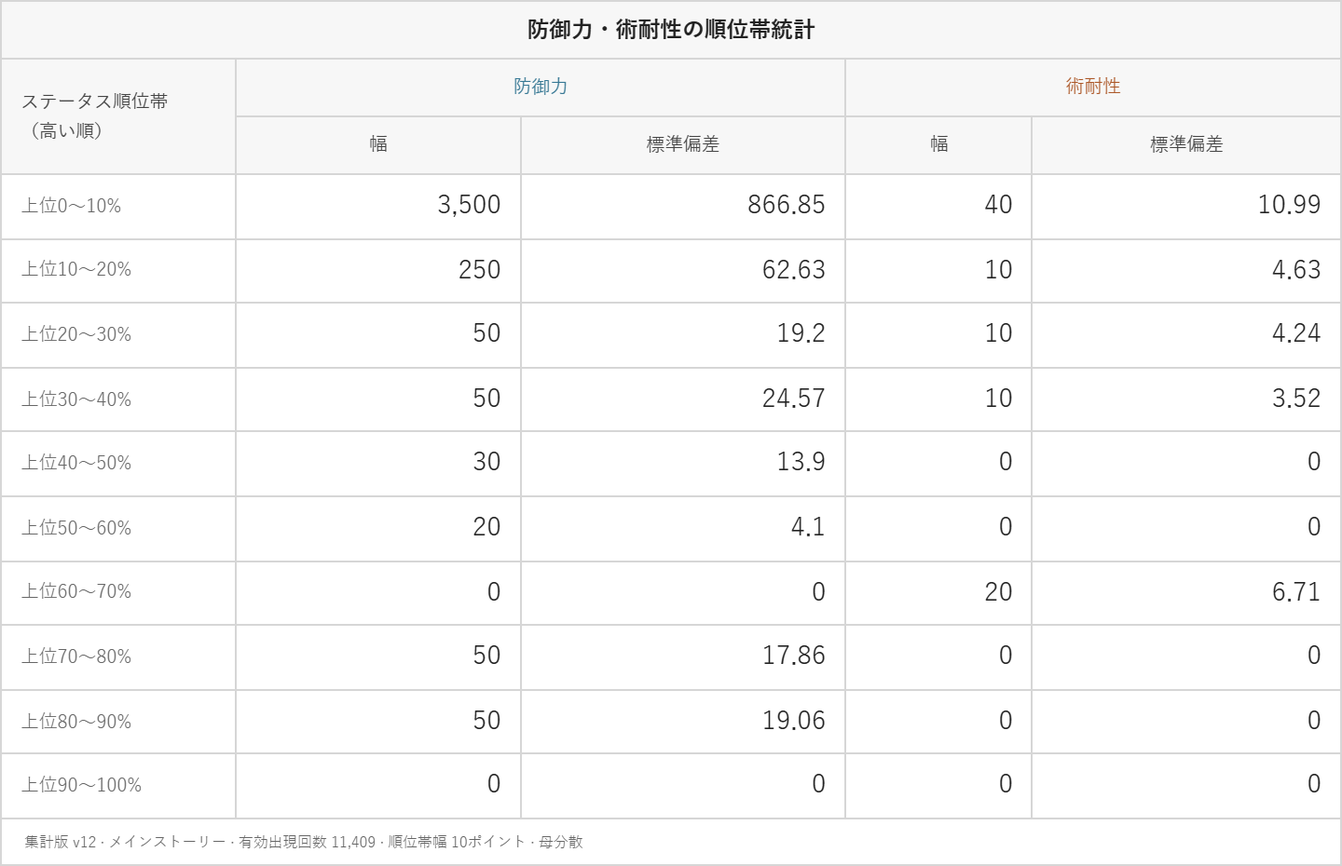
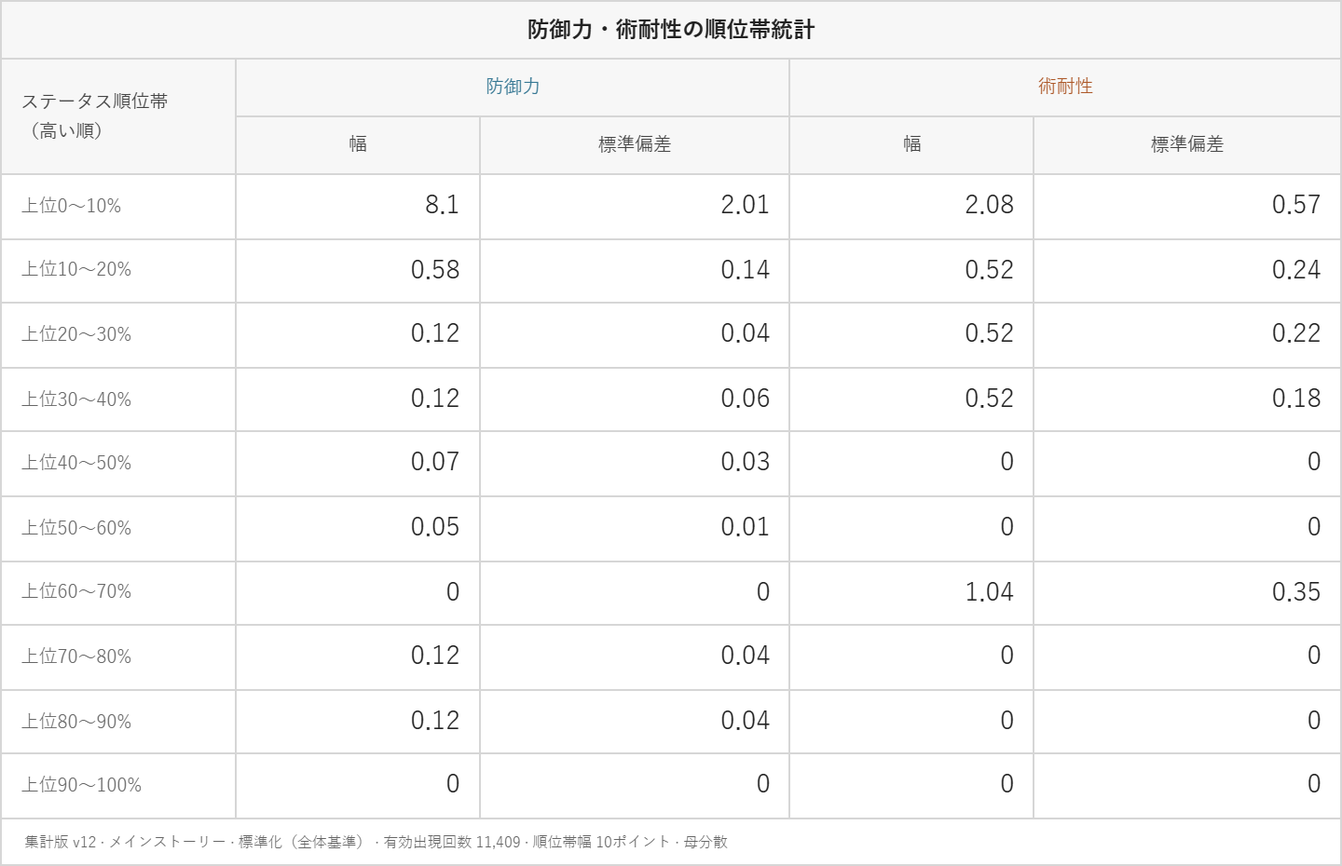
Standardize enemy rank band statistics on a shared mirrored scale

diff --git a/src/components/EnemyRankBandStatisticsPlot.tsx b/src/components/EnemyRankBandStatisticsPlot.tsx
@@ -1,7 +1,8 @@
 import { useId, useLayoutEffect, useRef, useState } from 'react'
-import { createZeroBasedValueAxis } from '../lib/chartValueAxis'
-import type { EnemyRankBandMetric, EnemyRankBandStatistics } from '../lib/enemyRankBandStatistics'
+import { getHpChartValueAxis } from '../lib/goldenglowTargetSwitchHpAxis'
+import type { EnemyRankBandMetric, EnemyStandardizedRankBandStatistics } from '../lib/enemyRankBandStatistics'
 import { ENEMY_RANK_BAND_METRIC_LABELS, formatRankBandStatistic } from '../lib/enemyRankBandStatisticsDisplay'
+import { ChartStripCell } from './ChartStripCell'
 import './EnemyRatingComparisonPlot.css'
 import './EnemyRankBandStatisticsPlot.css'
 
@@ -9,19 +10,31 @@ const SERIES = [
   { key: 'defense', label: '防御力', colorClass: 'defense' },
   { key: 'resistance', label: '術耐性', colorClass: 'magicResistance' },
 ] as const
-const MINIMUM_WIDTH = 560
-const ROW_HEIGHT = 26
-const PANEL_CHROME_HEIGHT = 80
-const PANEL_GAP = 24
+const MINIMUM_WIDTH = 720
+const ROW_HEIGHT = 32
+const CHROME_HEIGHT = 96
+const RANK_COLUMN_WIDTH = 122
+const COLUMN_GAP = 8
+const OUTER_PADDING = 8
+const MINIMUM_TRACK_WIDTH = 160
 const INK = { 'data-chart-image-ink': 'true' }
 
 export function getEnemyRankBandStatisticsPlotHeight(bandCount: number): number {
-  return 2 * (PANEL_CHROME_HEIGHT + Math.max(1, bandCount) * ROW_HEIGHT) + PANEL_GAP
+  return CHROME_HEIGHT + Math.max(1, bandCount) * ROW_HEIGHT
 }
 
-/** The two statistics retain independent axes; all controls live outside the drawing. */
+function metricValue(band: EnemyStandardizedRankBandStatistics, key: typeof SERIES[number]['key'], metric: EnemyRankBandMetric): number | null {
+  const value = band[key]?.[metric]
+  return typeof value === 'number' && Number.isFinite(value) ? value : null
+}
+
+function formatValue(value: number | null): string {
+  return value === null ? '—' : formatRankBandStatistic(value)
+}
+
+/** Both standardized series share one value domain; controls live outside the drawing. */
 export function EnemyRankBandStatisticsPlot({ bands, metric, width, height, imageMode = false }: {
-  bands: readonly EnemyRankBandStatistics[]
+  bands: readonly EnemyStandardizedRankBandStatistics[]
   metric: EnemyRankBandMetric
   width?: number
   height?: number
@@ -49,65 +62,94 @@ export function EnemyRankBandStatisticsPlot({ bands, metric, width, height, imag
     return () => { observer.disconnect(); window.cancelAnimationFrame(frame) }
   }, [width])
 
-  const plotWidth = Math.max(MINIMUM_WIDTH, width ?? availableWidth)
+  const allValues = bands.flatMap(band => SERIES.map(({ key }) => metricValue(band, key, metric)))
+  const finiteValues = allValues.filter((value): value is number => value !== null)
+  const allLabels = allValues.map(formatValue)
+  const axis = getHpChartValueAxis(finiteValues, { mode: 'zero' })
+  const span = axis.upperLimit - axis.lowerLimit
+  // Both outer columns use the widest label so neither long variances nor small
+  // nonzero values are shortened, and the two drawing areas stay equally wide.
+  const valueColumnWidth = Math.max(76, ...allLabels.map(label => Math.ceil(label.length * 7.2) + 18))
+  const minimumWidth = 2 * (OUTER_PADDING + valueColumnWidth + MINIMUM_TRACK_WIDTH) + RANK_COLUMN_WIDTH + 4 * COLUMN_GAP
+  const plotWidth = Math.max(MINIMUM_WIDTH, minimumWidth, width !== undefined && Number.isFinite(width) ? width : availableWidth)
   const naturalHeight = getEnemyRankBandStatisticsPlotHeight(bands.length)
-  const plotHeight = Math.max(naturalHeight, height ?? naturalHeight)
-  const panelHeight = (plotHeight - PANEL_GAP) / 2
+  const plotHeight = Math.max(naturalHeight, height !== undefined && Number.isFinite(height) ? height : naturalHeight)
   const metricLabel = ENEMY_RANK_BAND_METRIC_LABELS[metric]
+  const columnLabel = metric === 'width' ? '幅' : metricLabel
+  const middle = plotWidth / 2
+  const top = 58
+  const bottom = plotHeight - 38
+  const rowStep = (bottom - top) / Math.max(1, bands.length)
+  const trackWidth = (plotWidth - 2 * OUTER_PADDING - 2 * valueColumnWidth - RANK_COLUMN_WIDTH - 4 * COLUMN_GAP) / 2
+  const largestTickLabel = Math.max(...axis.yTicks.map(tick => formatRankBandStatistic(tick).length * 7))
+  const tickGap = largestTickLabel + 14
+  const ticks = axis.yTicks.length <= 5 && trackWidth / Math.max(1, axis.yTicks.length - 1) >= tickGap
+    ? axis.yTicks : [...new Set([axis.lowerLimit, 0, axis.upperLimit])].filter(tick => tick === 0
+      || Math.abs(tick) / span * trackWidth >= (formatRankBandStatistic(tick).length + 1) * 3.5 + 12)
   const description = SERIES.map(({ key, label }) => `${label}：${bands.map(band =>
-    `上位${band.from}〜${band.to}% ${formatRankBandStatistic(band[key][metric])}`).join('、')}`).join('。')
+    `上位${band.from}〜${band.to}% ${formatValue(metricValue(band, key, metric))}`).join('、')}`).join('。')
 
   const drawing = <svg className={`enemy-rank-band-statistics-plot${imageMode ? ' is-image' : ''}`}
     width={plotWidth} height={plotHeight} viewBox={`0 0 ${plotWidth} ${plotHeight}`}
     role="img" aria-labelledby={`${titleId} ${descriptionId}`}>
-    <title id={titleId}>順位帯ごとの防御力・術耐性の{metricLabel}</title>
-    <desc id={descriptionId}>{description}。防御力と術耐性は別々の数値軸です。</desc>
+    <title id={titleId}>順位帯ごとの防御力・術耐性の{metricLabel}（標準化）</title>
+    <desc id={descriptionId}>{description}。中央はステータス順位帯、左が防御力、右が術耐性です。標準化した値を左右共通の数値軸で表示しています。</desc>
+    <text {...INK} x={middle} y="18" textAnchor="middle" className="enemy-rank-band-axis-label">
+      <tspan x={middle}>ステータス</tspan><tspan x={middle} dy="13">順位帯</tspan>
+    </text>
     {SERIES.map(({ key, label, colorClass }, seriesIndex) => {
-      const values = bands.map(band => band[key][metric])
-      const axis = createZeroBasedValueAxis(Math.max(0, ...values), 0)
-      const lastTick = axis.ticks.length - 1
-      const ticks = axis.ticks.length <= 5 ? axis.ticks
-        : axis.ticks.filter((_, index) => index === 0 || index === lastTick || index === Math.floor(lastTick / 2))
-      const valueSpace = Math.max(64, ...values.map(value => formatRankBandStatistic(value).length * 7 + 14))
-      const left = 88
-      const right = plotWidth - valueSpace - 12
-      const top = seriesIndex * (panelHeight + PANEL_GAP)
-      const rowStep = (panelHeight - PANEL_CHROME_HEIGHT) / Math.max(1, bands.length)
-      const rowsTop = top + 40
-      const bottom = rowsTop + rowStep * Math.max(1, bands.length)
-      const valueX = (value: number) => left + (right - left) * value / axis.maximum
-      const axisLabel = metric === 'variance' ? `分散（${label}²）` : metricLabel
-      return <g key={key} className={`enemy-rating-comparison-series ${colorClass}`}>
-        <text {...INK} x="8" y={top + 15} className="enemy-rank-band-series-label">{label}</text>
-        <text {...INK} x="8" y={top + 33} className="enemy-rank-band-axis-label">ステータス順位帯</text>
+      const direction = seriesIndex === 0 ? -1 : 1
+      const origin = middle + direction * (RANK_COLUMN_WIDTH / 2 + COLUMN_GAP)
+      const edge = origin + direction * trackWidth
+      const valueLeft = seriesIndex === 0 ? OUTER_PADDING : plotWidth - OUTER_PADDING - valueColumnWidth
+      const valueCenter = valueLeft + valueColumnWidth / 2
+      const trackCenter = (origin + edge) / 2
+      const valueX = (value: number) => origin + direction * trackWidth
+        * Math.max(0, Math.min(1, (value - axis.lowerLimit) / span))
+      const zeroX = valueX(0)
+      return <g key={key} className={`enemy-rating-comparison-series ${colorClass}`}
+        data-rank-band-domain-min={axis.lowerLimit} data-rank-band-domain-max={axis.upperLimit}
+        data-rank-band-zero-x={zeroX}>
+        <text {...INK} x={trackCenter} y="20" textAnchor="middle" className="enemy-rank-band-series-label">{label}</text>
+        <text {...INK} x={valueCenter} y="20" textAnchor="middle" className="enemy-rank-band-axis-label">{columnLabel}</text>
         {ticks.map(tick => <g key={tick}>
-          <line x1={valueX(tick)} x2={valueX(tick)} y1={rowsTop} y2={bottom}
+          <line x1={valueX(tick)} x2={valueX(tick)} y1={top} y2={bottom}
             className={tick === 0 ? 'enemy-rating-comparison-baseline' : 'enemy-rating-comparison-gridline'} />
-          <text {...INK} x={valueX(tick)} y={bottom + 18}
-            textAnchor={tick === 0 ? 'start' : tick === axis.maximum ? 'end' : 'middle'}
+          <text {...INK} x={valueX(tick)} y="48"
+            textAnchor={tick === axis.lowerLimit ? direction === -1 ? 'end' : 'start'
+              : tick === axis.upperLimit ? direction === -1 ? 'start' : 'end' : 'middle'}
             className="enemy-rank-band-tick">{formatRankBandStatistic(tick)}</text>
         </g>)}
         {bands.map((band, rowIndex) => {
-          const value = band[key][metric]
-          const y = rowsTop + rowStep * (rowIndex + 0.5)
-          const barHeight = Math.min(18, rowStep * 0.65)
+          const value = metricValue(band, key, metric)
+          const y = top + rowStep * (rowIndex + 0.5)
+          const endpoint = value === null ? zeroX : valueX(value)
+          const barHeight = Math.min(26, rowStep * 0.62)
           return <g key={band.from}>
-            <text {...INK} x={left - 10} y={y + 4} textAnchor="end" className="enemy-rank-band-label">
-              {band.from}〜{band.to}%
-            </text>
-            <rect {...INK} x={left} y={y - barHeight / 2} width={Math.max(0, valueX(value) - left)}
-              height={barHeight} fill="currentColor" />
-            <text {...INK} x={valueX(value) + 8} y={y + 4} className="enemy-rank-band-value">
-              {formatRankBandStatistic(value)}
-            </text>
+            {value !== null && <rect {...INK} className="enemy-rank-band-statistics-bar" data-rank-band-series={key}
+              data-rank-band-from={band.from} data-rank-band-to={band.to} data-rank-band-statistic={value}
+              x={Math.min(zeroX, endpoint)} y={y - barHeight / 2}
+              width={Math.abs(endpoint - zeroX)} height={barHeight} fill="currentColor" />}
+            <ChartStripCell left={valueLeft} width={valueColumnWidth} top={top + rowIndex * rowStep + 2}
+              height={Math.max(0, rowStep - 4)} labelY={y + 4} label={formatValue(value)}
+              labelClassName="chart-strip-label enemy-rank-band-value"
+              fillAttributes={{ 'data-rank-band-strip': 'value', 'data-rank-band-series': key, 'data-rank-band-from': band.from }}
+              labelAttributes={{ 'data-rank-band-value': key, 'data-rank-band-from': band.from }} />
           </g>
         })}
-        {bands.length === 0 && <text {...INK} x={(left + right) / 2} y={rowsTop + rowStep / 2}
+        {bands.length === 0 && <text {...INK} x={trackCenter} y={top + rowStep / 2}
           textAnchor="middle" className="enemy-rank-band-label">データなし</text>}
-        <text {...INK} x={(left + right) / 2} y={bottom + 38} textAnchor="middle"
-          className="enemy-rank-band-axis-title">{axisLabel}</text>
+        <text {...INK} x={trackCenter} y={bottom + 17} textAnchor="middle" className="enemy-rank-band-axis-title">
+          <tspan x={trackCenter}>{metricLabel}</tspan><tspan x={trackCenter} dy="15">（標準化）</tspan>
+        </text>
       </g>
     })}
+    {bands.map((band, rowIndex) => <ChartStripCell key={band.from} left={middle - RANK_COLUMN_WIDTH / 2}
+      width={RANK_COLUMN_WIDTH} top={top + rowIndex * rowStep + 2} height={Math.max(0, rowStep - 4)}
+      labelY={top + (rowIndex + 0.5) * rowStep + 4} label={`上位${band.from}〜${band.to}%`}
+      labelClassName="chart-strip-label enemy-rank-band-label"
+      fillAttributes={{ 'data-rank-band-strip': 'rank', 'data-rank-band-from': band.from }}
+      labelAttributes={{ 'data-rank-band-rank': band.from }} />)}
   </svg>
 
   return imageMode ? drawing : <div className="enemy-rank-band-statistics-scroll" ref={scrollRef}

diff --git a/src/components/EnemyRankBandStatisticsPanel.tsx b/src/components/EnemyRankBandStatisticsPanel.tsx
@@ -2,9 +2,9 @@ import { useId, useMemo, useState } from 'react'
 import type { EnemyRecord } from '../types/enemy'
 import type { EnemyHistogramCounts } from '../lib/enemyHistogramCounts'
 import {
-  buildEnemyRankBandStatistics,
+  buildStandardizedEnemyRankBandStatistics,
   type EnemyRankBandMetric,
-  type EnemyRankBandStatistics,
+  type EnemyStandardizedRankBandStatistics,
   type EnemyRankBandStatValues,
 } from '../lib/enemyRankBandStatistics'
 import { ENEMY_RANK_BAND_METRIC_LABELS, formatRankBandStatistic } from '../lib/enemyRankBandStatisticsDisplay'
@@ -39,7 +39,7 @@ export function EnemyRankBandStatisticsPanel({ rows, counts, conditions }: {
   const [metric, setMetric] = useState<EnemyRankBandMetric>('standardDeviation')
   const [tableImage, setTableImage] = useState<ComparisonTableImageSnapshot | null>(null)
   const [chartImage, setChartImage] = useState<EnemyRankBandStatisticsChartSnapshot | null>(null)
-  const result = useMemo(() => buildEnemyRankBandStatistics(rows, counts, step), [rows, counts, step])
+  const result = useMemo(() => buildStandardizedEnemyRankBandStatistics(rows, counts, step), [rows, counts, step])
   const columns: Column[] = [
     ...(showRange ? ['min', 'max'] as const : []), 'width', ...(showMean ? ['mean'] as const : []),
     'standardDeviation', ...(showVariance ? ['variance'] as const : []),
@@ -47,21 +47,24 @@ export function EnemyRankBandStatisticsPanel({ rows, counts, conditions }: {
   const table = <EnemyRankBandStatisticsTable bands={result.bands} columns={columns} />
 
   function openImage() {
-    const snapshotConditions = [...conditions, '出現回数', `順位帯幅${step}ポイント`, '母分散']
+    const snapshotConditions = [...conditions, '標準化', '出現回数', `順位帯幅${step}ポイント`, '母分散']
     if (view === 'table') {
       setTableImage({
         title: '防御力・術耐性の順位帯統計',
-        conditions: [...conditions, `有効出現回数 ${COUNT.format(result.total)}`, `順位帯幅 ${step}ポイント`, '母分散'],
+        conditions: [...conditions, '標準化（全体基準）', `有効出現回数 ${COUNT.format(result.total)}`, `順位帯幅 ${step}ポイント`, '母分散'],
         filenameConditions: [...snapshotConditions, ...columns.map(column => COLUMN_LABELS[column])],
         table,
       })
     } else {
       setChartImage({
-        bands: result.bands.map(band => ({ ...band, defense: { ...band.defense }, resistance: { ...band.resistance } })),
+        bands: result.bands.map(band => ({ ...band,
+          defense: band.defense ? { ...band.defense } : null,
+          resistance: band.resistance ? { ...band.resistance } : null,
+        })),
         metric, step,
-        conditions: [...conditions, `出現回数 ${COUNT.format(result.total)}`,
+        conditions: [...conditions, '標準化（全体基準）', `出現回数 ${COUNT.format(result.total)}`,
           ...(['variance', 'standardDeviation'].includes(metric) ? ['母分散'] : [])],
-        filenameConditions: [...conditions, '出現回数',
+        filenameConditions: [...conditions, '標準化', '出現回数',
           ...(['variance', 'standardDeviation'].includes(metric) ? ['母分散'] : [])],
       })
     }
@@ -69,7 +72,7 @@ export function EnemyRankBandStatisticsPanel({ rows, counts, conditions }: {
 
   return <section className="enemy-rank-statistics" aria-label="順位帯の統計">
     <div className="enemy-rank-statistics-heading">
-      <h2>順位帯ごとの統計量</h2><span>出現回数で重み付け・母分散</span>
+      <h2>順位帯ごとの統計量（標準化）</h2><span>出現回数で重み付け・全体基準・母分散</span>
     </div>
     <div className="enemy-rank-statistics-toolbar">
       <label htmlFor={`${id}-step`}>順位帯幅
@@ -107,11 +110,11 @@ export function EnemyRankBandStatisticsPanel({ rows, counts, conditions }: {
 }
 
 export function EnemyRankBandStatisticsTable({ bands, columns }: {
-  bands: readonly EnemyRankBandStatistics[]
+  bands: readonly EnemyStandardizedRankBandStatistics[]
   columns: readonly Column[]
 }) {
   return <table className="damage-two-table enemy-defense-resistance-table enemy-rank-statistics-table"
-    aria-label="防御力と術耐性の順位帯統計">
+    aria-label="防御力と術耐性の順位帯統計（標準化）">
     <colgroup><col /></colgroup>
     {SERIES.map(series => <colgroup key={series.key}>{columns.map(column => <col key={column} />)}</colgroup>)}
     <thead>
@@ -126,7 +129,7 @@ export function EnemyRankBandStatisticsTable({ bands, columns }: {
     <tbody>{bands.map(band => <tr key={band.from}>
       <th scope="row">上位{band.from}〜{band.to}%</th>
       {SERIES.flatMap(series => columns.map(column => <td key={`${series.key}-${column}`} data-table-image-number>
-        {formatRankBandStatistic(band[series.key][column])}
+        {formatRankBandStatistic(band[series.key]?.[column])}
       </td>))}
     </tr>)}</tbody>
   </table>

diff --git a/src/lib/enemyRankBandStatistics.ts b/src/lib/enemyRankBandStatistics.ts
@@ -23,6 +23,14 @@ export interface EnemyRankBandStatistics {
   resistance: EnemyRankBandStatValues
 }
 
+export interface EnemyStandardizedRankBandStatistics {
+  from: number
+  to: number
+  weight: number
+  defense: EnemyRankBandStatValues | null
+  resistance: EnemyRankBandStatValues | null
+}
+
 // Match the existing rank-range calculation when a fractional frequency lands
 // on a cutoff after floating point rounding.
 const RANK_TOLERANCE = Number.EPSILON * 4
@@ -49,6 +57,51 @@ export function buildEnemyRankBandStatistics(
     })
   }
   return { total, bands }
+}
+
+/** Standardize against each complete weighted distribution, never within a band. */
+export function buildStandardizedEnemyRankBandStatistics(
+  rows: readonly EnemyRecord[],
+  counts: EnemyHistogramCounts,
+  step: 5 | 10 | 20 = 10,
+): { total: number; bands: EnemyStandardizedRankBandStatistics[] } {
+  const raw = buildEnemyRankBandStatistics(rows, counts, step)
+  if (raw.bands.length === 0) return { total: raw.total, bands: [] }
+  const eligible = rows.filter(({ stats }) => Number.isFinite(stats.defense) && Number.isFinite(stats.magicResistance))
+  const reference = (value: (enemy: EnemyRecord) => number | null) => {
+    const statistics = calculateWeightedHistogram(buildEnemyHistogramObservations(eligible, value, 'SPAWNS', counts))
+    const mean = statistics.mean
+    const standardDeviation = statistics.standardDeviation
+    // Equal values must remain undefined even if a weighted mean rounds a
+    // fraction away from that common value and leaves a tiny nonzero variance.
+    return statistics.minimum === statistics.maximum || mean === null || !Number.isFinite(mean)
+      || standardDeviation === null || !Number.isFinite(standardDeviation) || standardDeviation <= 0
+      ? null : { mean, standardDeviation }
+  }
+  const defense = reference(({ stats }) => stats.defense)
+  const resistance = reference(({ stats }) => stats.magicResistance)
+  return {
+    total: raw.total,
+    bands: raw.bands.map(band => ({
+      from: band.from, to: band.to, weight: band.weight,
+      defense: standardizeBand(band.defense, defense),
+      resistance: standardizeBand(band.resistance, resistance),
+    })),
+  }
+}
+
+function standardizeBand(values: EnemyRankBandStatValues,
+  reference: { mean: number; standardDeviation: number } | null): EnemyRankBandStatValues | null {
+  if (reference === null) return null
+  const { mean, standardDeviation } = reference
+  return {
+    min: (values.min - mean) / standardDeviation,
+    max: (values.max - mean) / standardDeviation,
+    width: values.width / standardDeviation,
+    mean: (values.mean - mean) / standardDeviation,
+    variance: values.variance / standardDeviation ** 2,
+    standardDeviation: values.standardDeviation / standardDeviation,
+  }
 }
 
 function statisticsForBand(

diff --git a/src/components/EnemyRankBandStatisticsImageDialog.tsx b/src/components/EnemyRankBandStatisticsImageDialog.tsx
@@ -1,5 +1,5 @@
 import { useRef, useState } from 'react'
-import type { EnemyRankBandMetric, EnemyRankBandStatistics } from '../lib/enemyRankBandStatistics'
+import type { EnemyRankBandMetric, EnemyStandardizedRankBandStatistics } from '../lib/enemyRankBandStatistics'
 import { ENEMY_RANK_BAND_METRIC_LABELS } from '../lib/enemyRankBandStatisticsDisplay'
 import { getChartImageSavePicker, selectChartImageDestination } from '../lib/chartImageDestination'
 import { createChartImageFilename, withChartImageAspect } from '../lib/chartImageFilename'
@@ -12,7 +12,7 @@ import { EnemyRankBandStatisticsPlot, getEnemyRankBandStatisticsPlotHeight } fro
 import { saveComparisonChartImage } from './saveComparisonChartImage'
 
 export interface EnemyRankBandStatisticsChartSnapshot {
-  bands: readonly EnemyRankBandStatistics[]
+  bands: readonly EnemyStandardizedRankBandStatistics[]
   metric: EnemyRankBandMetric
   step: number
   conditions: readonly string[]
@@ -40,7 +40,10 @@ export function EnemyRankBandStatisticsImageDialog({ snapshot, onClose }: {
 }) {
   const [outputSnapshot] = useState<EnemyRankBandStatisticsChartSnapshot>(() => ({
     ...snapshot,
-    bands: snapshot.bands.map(band => ({ ...band, defense: { ...band.defense }, resistance: { ...band.resistance } })),
+    bands: snapshot.bands.map(band => ({ ...band,
+      defense: band.defense ? { ...band.defense } : null,
+      resistance: band.resistance ? { ...band.resistance } : null,
+    })),
     conditions: [...snapshot.conditions],
     filenameConditions: [...snapshot.filenameConditions],
   }))

diff --git a/src/lib/enemyRankBandStatisticsDisplay.ts b/src/lib/enemyRankBandStatisticsDisplay.ts
@@ -10,8 +10,8 @@ export const ENEMY_RANK_BAND_METRIC_LABELS: Record<EnemyRankBandMetric, string> 
 const NUMBER = new Intl.NumberFormat('ja-JP', { maximumFractionDigits: 2 })
 const SMALL_NUMBER = new Intl.NumberFormat('ja-JP', { maximumSignificantDigits: 3 })
 
-export function formatRankBandStatistic(value: number): string {
-  if (!Number.isFinite(value)) return '—'
+export function formatRankBandStatistic(value: number | null | undefined): string {
+  if (typeof value !== 'number' || !Number.isFinite(value)) return '—'
   if (value === 0) return '0'
   return Math.abs(value) < 0.005 ? SMALL_NUMBER.format(value) : NUMBER.format(value)
 }

diff --git a/src/components/EnemyRankBandStatisticsPlot.css b/src/components/EnemyRankBandStatisticsPlot.css
@@ -42,3 +42,4 @@
 
 .enemy-rank-band-statistics-plot.is-image .enemy-rating-comparison-gridline { stroke: #d4d4d4; }
 .enemy-rank-band-statistics-plot.is-image .enemy-rating-comparison-baseline { stroke: #888; }
+.enemy-rank-band-statistics-plot.is-image .chart-strip-fill { fill: #444; }

diff --git a/docs/chart-image/README.md b/docs/chart-image/README.md
@@ -361,11 +361,13 @@ const baseFilename = createChartImageFilename(prefix, parts)
 
 帯内の出現重みは、各値の累積出現区間と順位帯が重なる部分だけを使う。同値が複数の帯にまたがる場合も、同じ値の全出現回数を各帯へ重複して入れない。幅は帯内の最大−最小、平均・標準偏差は既存の重み付き統計処理、分散は帯内総重みで割る母分散を使う。同じ値だけの帯では幅・分散・標準偏差を0とする。
 
-初期表示は表で、共通の順位帯列と、防御力・術耐性それぞれの幅・標準偏差を並べる。平均・分散・最小最大は追加表示でき、選択中の全行・全列を `ComparisonTableImageDialog` で保存する。グラフでは幅・平均・標準偏差・分散を切り替え、同じ順位帯を防御力・術耐性の別軸で上下に表示する。分散の軸は二乗の単位を示し、グラフ本体に選択・ホバー・ズームは設けない。
+表示値は全体を基準に標準化する。防御力と術耐性それぞれについて、選択中の集計版・範囲の共通有効集合から出現回数で重み付けした全体平均μ・母標準偏差σを求める。帯の平均・最小・最大は `(値−μ)/σ`、幅・標準偏差は `値/σ`、分散は `値/σ²` に変換する。帯ごとに基準を求め直さない。全体のσが0などで標準化できない系列は「—」とし、もう一方の有効な系列は表示する。元の値による計算関数は既存のまま保持する。
 
-グラフの画面・プレビュー・PNGには同じ `EnemyRankBandStatisticsPlot` を使う。`ChartImageFrame` 内に両方の図を配置し、比率は画像全体へ一度だけ適用する。5ポイント帯でも全20帯を保持し、自然な高さを確保する。画像保存は `ChartImageSaveDialog`・共通の命名処理・PNG生成処理を使い、保存開始時点のデータ・列・統計量をスナップショットとして固定する。表の既定名には表示列、グラフの既定名には統計量を含め、いずれも集計版・集計範囲・出現回数・順位帯幅・比率を識別できるようにする。
+初期表示は表で、共通の順位帯列と、防御力・術耐性それぞれの標準化した幅・標準偏差を並べる。平均・分散・最小最大は追加表示でき、選択中の全行・全列を `ComparisonTableImageDialog` で保存する。グラフでは幅・平均・標準偏差・分散を切り替え、中央にステータス順位帯、左に防御力、右に術耐性の横棒を置く。両系列・全順位帯に同じ数値軸を使い、同じ絶対値は左右とも同じ棒の長さにする。標準化平均が負の場合は両側に共通の負領域を確保し、それぞれの0の基線からトラック内に描画する。中央の順位帯と両端の統計量は、評価別分布と共通の `ChartStripCell` で灰色の帯に表示する。軸には「標準化」と表示し、元の防御力・術耐性の単位を付けない。グラフ本体に選択・ホバー・ズームは設けない。
 
-[表の確認用PNG](examples/enemy-rank-statistics-v12-main-table.png)と[標準偏差グラフの確認用PNG](examples/enemy-rank-statistics-v12-main-sd-16x9.png)は、v12・メインストーリー・10ポイント刻みで、保存先だけを模擬してアプリのPNG生成処理から作成したもの。表は幅・標準偏差の初期列と比率自動、グラフは標準偏差と比率16:9を使う。防御力上位0〜10%の幅3,500・標準偏差866.85、術耐性の幅40・標準偏差10.99が画面と一致する。平均・分散・最小最大を加えた全列の表、5・20ポイント帯、狭い画面の横スクロールも確認する。
+グラフの画面・プレビュー・PNGには同じ `EnemyRankBandStatisticsPlot` を使う。`ChartImageFrame` 内に左右配置の図を置き、比率は画像全体へ一度だけ適用する。5ポイント帯でも全20帯を保持し、自然な高さを確保する。長い数値に合わせて両端の帯幅を確保し、画面幅が足りない場合は文字を縮めず横スクロールで表示する。画像保存は `ChartImageSaveDialog`・共通の命名処理・PNG生成処理を使い、保存開始時点のデータ・列・統計量をスナップショットとして固定する。表の既定名には表示列、グラフの既定名には統計量を含め、いずれも標準化・集計版・集計範囲・出現回数・順位帯幅・比率を識別できるようにする。
+
+[表の確認用PNG](examples/enemy-rank-statistics-v12-main-table.png)と[標準偏差グラフの確認用PNG](examples/enemy-rank-statistics-v12-main-sd-16x9.png)は、v12・メインストーリー・全体基準の標準化・10ポイント刻みで、保存先だけを模擬してアプリのPNG生成処理から作成したもの。表は幅・標準偏差の初期列と比率自動、グラフは標準偏差と比率16:9を使う。画面・表・グラフの標準化した値と、左右の共通目盛りが一致することを確認する。平均・分散・最小最大を加えた全列の表、平均の負値、5・20ポイント帯、狭い画面の横スクロールも確認する。
 
 ## 変更時の確認
 
